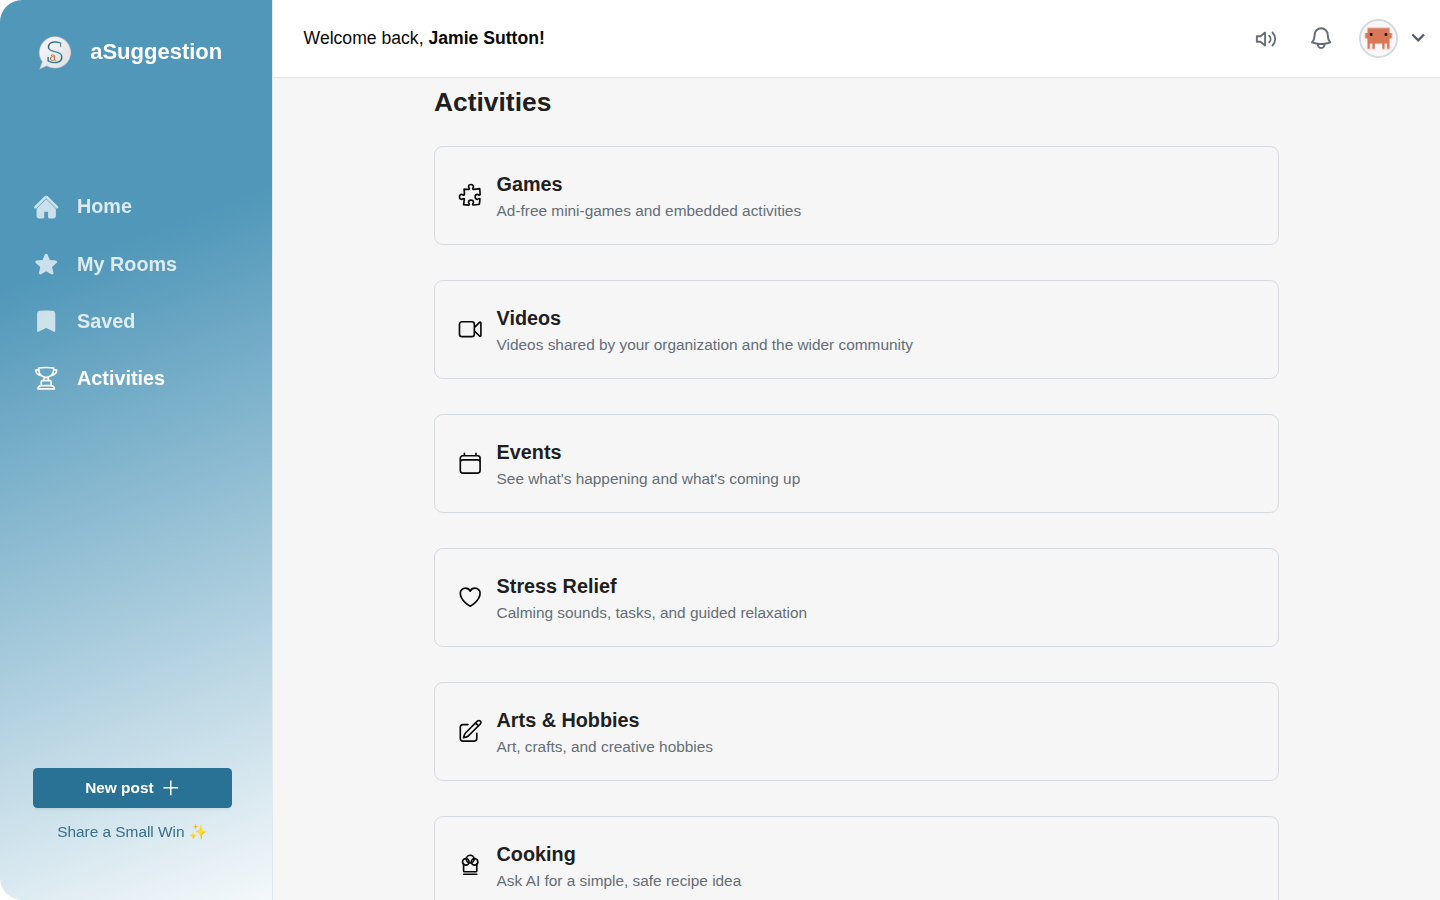
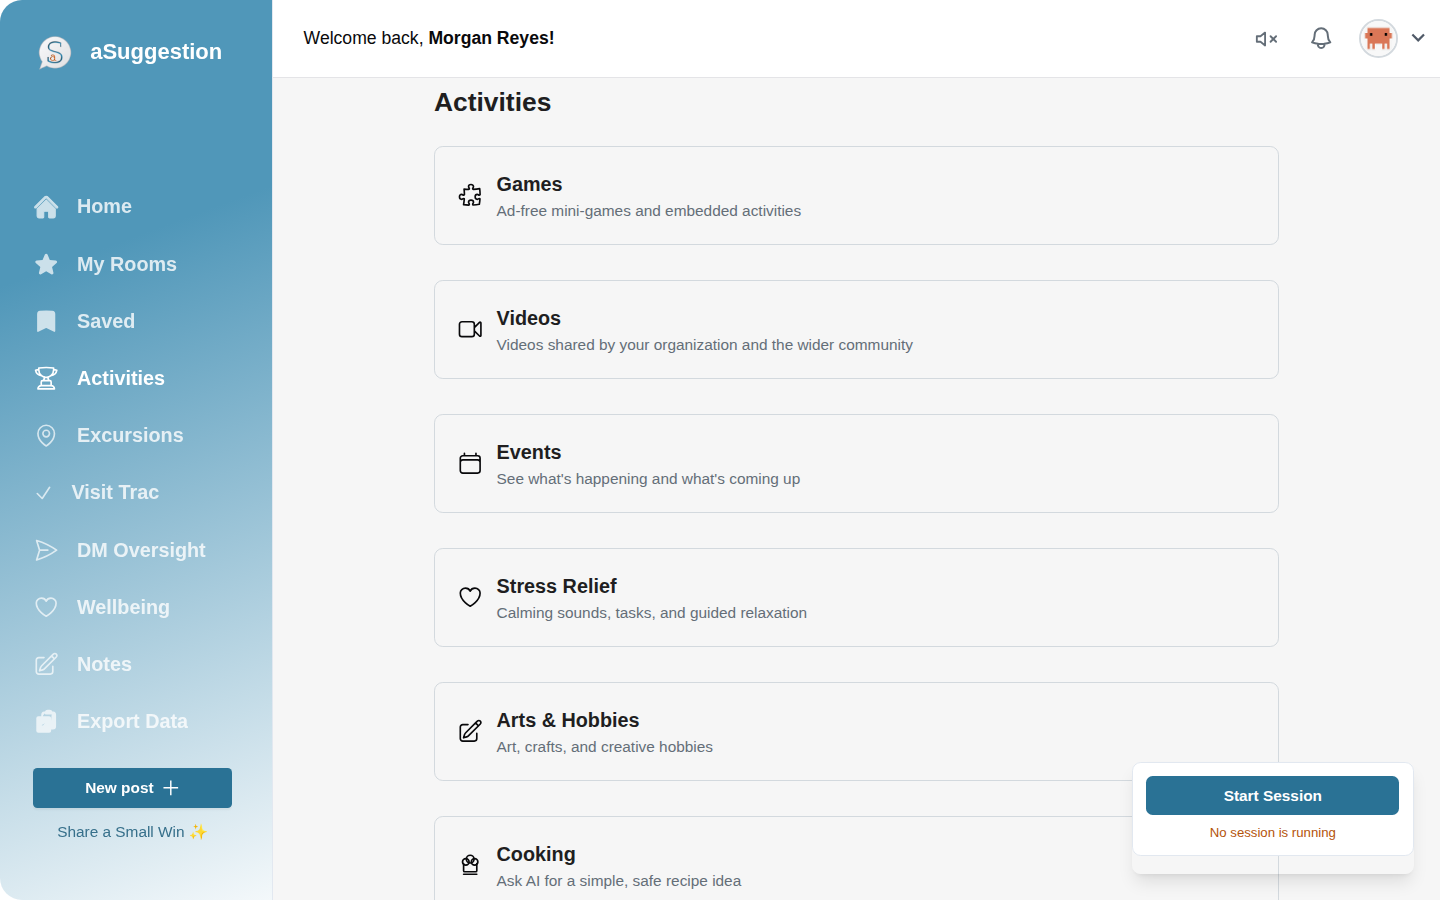
Real Check-In Chats photo from live brochure, richer homepage feature row, Day Program billable-tracking copy
- Check-In Chats mockup: replaced the custom-built dark UI with a clean
  high-res crop of the actual browser-mockup card from the live Figma
  brochure (big-pep-59858798.figma.site), matching the design Greg pointed
  to directly instead of a bespoke redesign
- Homepage: renamed "Shared To-Dos" -> "Shared Tasks and Reminders",
  multilingual copy now says "over 70 languages", added an "And much
  more, such as . . ." subheader and a 4th Check-In Chats item to the
  feature row (2x2 grid)
- Guided Notes screenshot now shows the "Guided Note" tab active instead
  of defaulting to Free Form Note (index.html + about.html both use it)
- Excursions screenshot now shows the excursion-type dropdown expanded
- Activities screenshot recaptured from the HCP view so the Start Session
  widget is visible; added copy on both index.html and about.html tying
  activity usage to billable Day Program time via Start Session
- About page: "activities and curated videos" -> "activities, live
  events, and curated videos"

diff --git a/index.html b/index.html
@@ -178,7 +178,7 @@
             <img class="gallery-img-top" src="assets/images/showcase/showcase-activities.png" alt="Activities for Day Programs" loading="lazy" />
             <div class="gallery-overlay">
               <p class="gallery-title">Built-In Day Program Content</p>
-              <p class="gallery-desc">A ready-made library of games, guided crafts, cooking, and curated videos, structured enough to fill real Day Program hours.</p>
+              <p class="gallery-desc">A ready-made library of games, guided crafts, cooking, and curated videos. Staff start a session to track any activity toward billable Day Program time.</p>
             </div>
           </div>
 
@@ -199,17 +199,18 @@
           </div>
 
           <div class="gallery-card h-64 shadow-sm lift-card" tabindex="0">
-            <img class="gallery-img-top" src="assets/images/showcase/showcase-admin-todos.png" alt="Shared To-Dos" loading="lazy" />
+            <img class="gallery-img-top" src="assets/images/showcase/showcase-admin-todos.png" alt="Shared Tasks and Reminders" loading="lazy" />
             <div class="gallery-overlay">
-              <p class="gallery-title">Shared To-Dos</p>
+              <p class="gallery-title">Shared Tasks and Reminders</p>
               <p class="gallery-desc">Assign and track tasks for a specific person, so nothing about their care depends on one staff member remembering it.</p>
             </div>
           </div>
 
         </div>
 
-        <div class="mt-6 rounded-[1.5rem] bg-white p-6 shadow-sm ring-1 ring-slate-100 lift-card">
-          <div class="grid gap-6 sm:grid-cols-3">
+        <p class="mt-2 text-sm font-bold uppercase tracking-[0.2em] text-slate-400">And much more, such as . . .</p>
+        <div class="mt-3 rounded-[1.5rem] bg-white p-6 shadow-sm ring-1 ring-slate-100 lift-card">
+          <div class="grid gap-x-6 gap-y-6 sm:grid-cols-2">
             <div>
               <h3 class="text-base font-bold text-brand-navy">Excursion Tracking</h3>
               <p class="mt-2 text-sm leading-6 text-slate-600">Log community outings, calculate mileage automatically, and publish group photos with participant-level consent built in.</p>
@@ -218,9 +219,13 @@
               <h3 class="text-base font-bold text-brand-navy">Live Interactive Sessions and Video Content Library</h3>
               <p class="mt-2 text-sm leading-6 text-slate-600">A curated library of videos and live content, shared by your organization and the wider community.</p>
             </div>
-            <div class="sm:border-l sm:border-slate-100 sm:pl-6">
+            <div class="border-t border-slate-100 pt-6">
               <h3 class="text-base font-bold text-brand-navy">Multilanguage &amp; Accessibility</h3>
-              <p class="mt-2 text-sm leading-6 text-slate-600">Full English/Spanish support with AI content translation, dark mode, and keyboard-accessible interactions throughout.</p>
+              <p class="mt-2 text-sm leading-6 text-slate-600">Support for over 70 languages via AI content translation, plus dark mode and keyboard-accessible interactions throughout.</p>
+            </div>
+            <div class="border-t border-slate-100 pt-6 sm:border-l sm:pl-6">
+              <h3 class="text-base font-bold text-brand-navy">Check-In Chats</h3>
+              <p class="mt-2 text-sm leading-6 text-slate-600">A live, secure video check-in between a care professional and the person they support, started in a click.</p>
             </div>
           </div>
         </div>

diff --git a/about.html b/about.html
@@ -300,8 +300,8 @@
       { label: 'Life Gamified', track: 'For Individuals & Families', title: 'Daily living skills, made motivating',
         desc: 'Simple checklists turn everyday routines like hygiene, meals, and chores into small, trackable wins. Points, streaks, and a personal best keep the momentum going. You compete only against your own history, never anyone else.',
         img: 'assets/images/showcase/showcase-life-gamified.png' },
-      { label: 'Activities', track: 'For Individuals & Families', title: 'A full library of activities and curated videos',
-        desc: 'Games, guided crafts, cooking, stress relief, and a curated video library shared by your organization and the wider community, all in one place. Built for Day Program hours as much as free time at home.',
+      { label: 'Activities', track: 'For Individuals & Families', title: 'A full library of activities, live events, and curated videos',
+        desc: 'Games, guided crafts, cooking, stress relief, live events, and a curated video library shared by your organization and the wider community, all in one place. Staff can start a session on any activity to track it toward billable Day Program time.',
         img: 'assets/images/showcase/showcase-activities.png' },
       { label: 'Guided Notes', track: 'For Organizations & Care Teams', title: 'Structured, audit-ready documentation',
         desc: 'Built for how shift documentation actually happens, with structured fields for service type, presentation, and progress instead of a blank text box. Notes can link directly to a person’s active goals to support billing compliance.',
